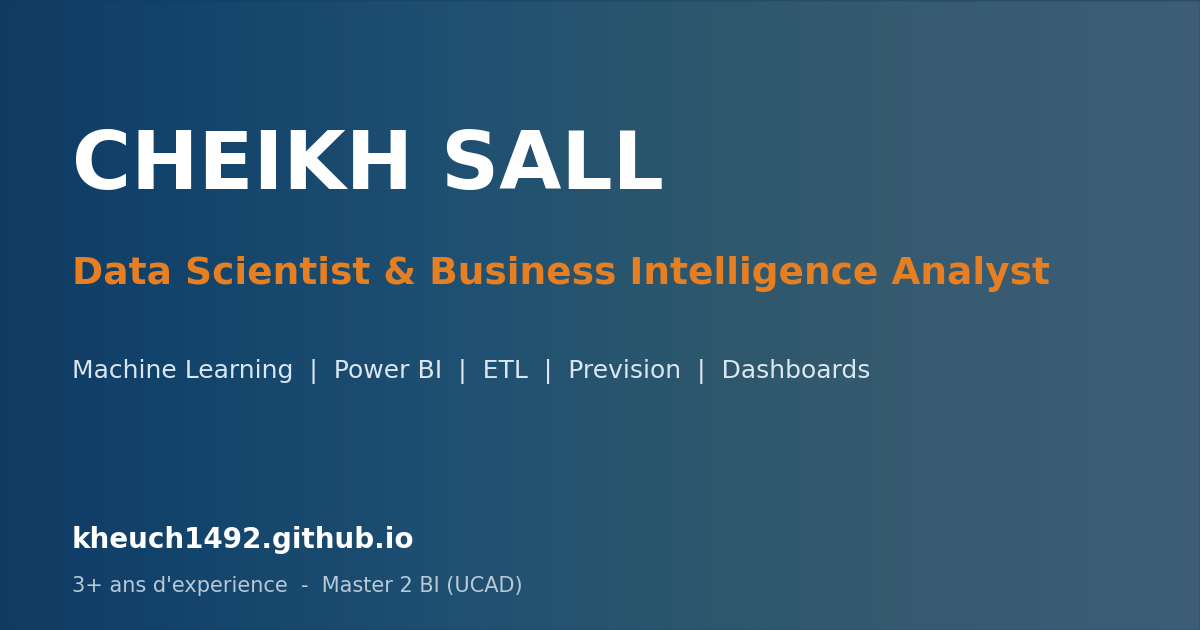
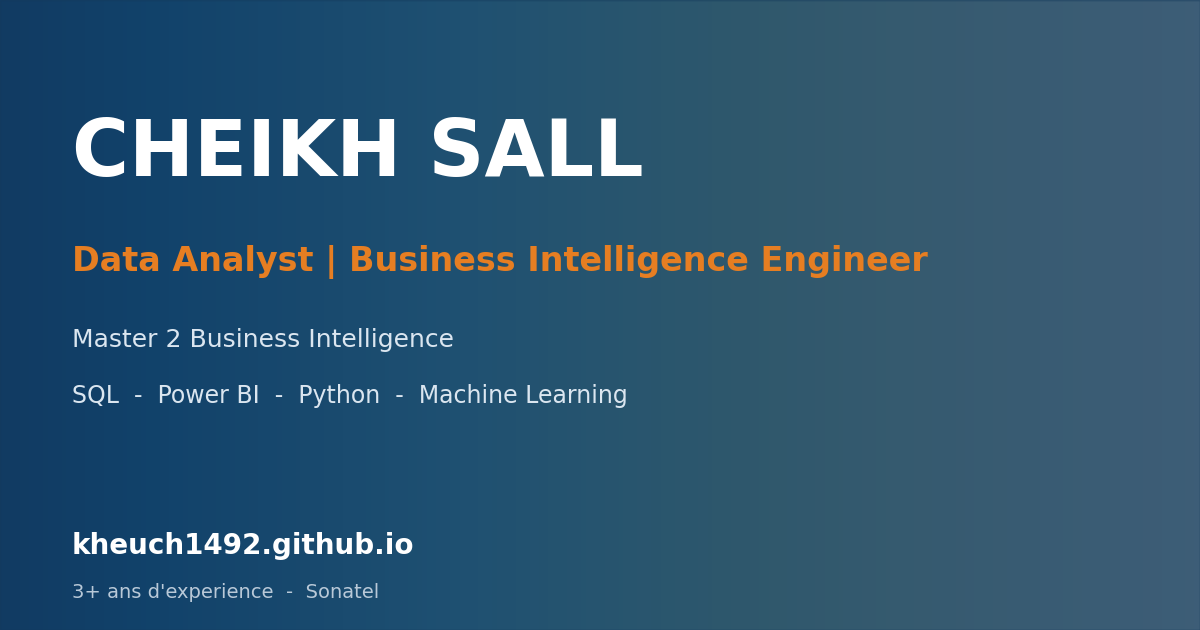
feat: nouveau titre (Data Analyst | BI Engineer) + Master 2 BI + stack, meta & OG mis a jour

diff --git a/index.html b/index.html
@@ -3,17 +3,17 @@
 <head>
   <meta charset="UTF-8" />
   <meta name="viewport" content="width=device-width, initial-scale=1.0" />
-  <title>Cheikh Sall — Data Scientist &amp; BI Analyst</title>
-  <meta name="description" content="Portfolio de Cheikh Sall — Data Scientist & Business Intelligence Analyst. 3+ ans d'expérience (Sonatel), Machine Learning, Power BI, ETL, dashboards." />
+  <title>Cheikh Sall — Data Analyst | BI Engineer</title>
+  <meta name="description" content="Portfolio de Cheikh Sall — Data Analyst | Business Intelligence Engineer. Master 2 BI. SQL, Power BI, Python, Machine Learning. 3+ ans d'expérience (Sonatel)." />
   <link rel="icon" type="image/svg+xml" href="favicon.svg" />
   <!-- Open Graph / aperçu de partage -->
   <meta property="og:type" content="website" />
-  <meta property="og:title" content="Cheikh Sall — Data Scientist & BI Analyst" />
-  <meta property="og:description" content="3+ ans d'expérience (Sonatel) · Machine Learning, Power BI, ETL, prévision & dashboards. Master 2 Business Intelligence (UCAD)." />
+  <meta property="og:title" content="Cheikh Sall — Data Analyst | BI Engineer" />
+  <meta property="og:description" content="Master 2 Business Intelligence · SQL, Power BI, Python, Machine Learning · 3+ ans d'expérience (Sonatel)." />
   <meta property="og:url" content="https://kheuch1492.github.io" />
   <meta property="og:image" content="https://kheuch1492.github.io/assets/og-image.png" />
   <meta name="twitter:card" content="summary_large_image" />
-  <meta name="twitter:title" content="Cheikh Sall — Data Scientist & BI Analyst" />
+  <meta name="twitter:title" content="Cheikh Sall — Data Analyst | BI Engineer" />
   <meta name="twitter:description" content="Machine Learning · Power BI · ETL · Prévision · Dashboards." />
   <meta name="twitter:image" content="https://kheuch1492.github.io/assets/og-image.png" />
   <link rel="preconnect" href="https://fonts.googleapis.com" />
@@ -44,7 +44,9 @@
       <span class="avail"><span class="dot"></span><span data-fr="Ouvert aux opportunités" data-en="Open to opportunities">Ouvert aux opportunités</span></span>
       <p class="eyebrow" data-fr="👋 Bonjour, je suis" data-en="👋 Hi, I'm">👋 Bonjour, je suis</p>
       <h1>Cheikh Sall</h1>
-      <h2 class="gradient">Data Scientist &amp; BI Analyst</h2>
+      <h2 class="gradient">Data Analyst | Business Intelligence Engineer</h2>
+      <p class="hero-sub2">Master 2 Business Intelligence</p>
+      <p class="hero-skills">SQL • Power BI • Python • Machine Learning</p>
       <p class="tagline"
          data-fr="Ingénieur en Business Intelligence (3+ ans d'expérience, Sonatel). Je transforme les données en décisions : pipelines ETL, machine learning, prévision et tableaux de bord Power BI. Master 2 BI (UCAD, Mention Bien)."
          data-en="Business Intelligence engineer (3+ yrs, Sonatel). I turn data into decisions: ETL pipelines, machine learning, forecasting and Power BI dashboards. M.Sc. in BI (UCAD, with honors).">

diff --git a/style.css b/style.css
@@ -79,6 +79,8 @@ section { scroll-margin-top: 80px; }
 .hero h1 { font-size: clamp(2.6rem, 7vw, 4.6rem); font-weight: 800; letter-spacing: -2px; line-height: 1.05; }
 .hero h2 { font-size: clamp(1.4rem, 4vw, 2.6rem); font-weight: 800; margin: .2rem 0 1.2rem; letter-spacing: -1px; }
 .gradient { background: var(--grad); -webkit-background-clip: text; background-clip: text; color: transparent; }
+.hero-sub2 { font-size: 1.1rem; font-weight: 700; color: var(--text); margin: .1rem 0 .15rem; }
+.hero-skills { font-size: .95rem; font-weight: 600; color: var(--text-soft); letter-spacing: .02em; margin-bottom: .7rem; }
 .tagline { font-size: clamp(1rem, 2vw, 1.2rem); color: var(--text-soft); max-width: 640px; }
 .hero-cta { display: flex; gap: 1rem; margin: 1.8rem 0 1.2rem; flex-wrap: wrap; }
 .btn-primary {
